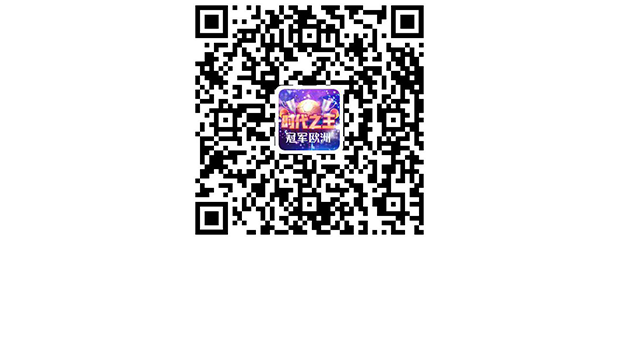
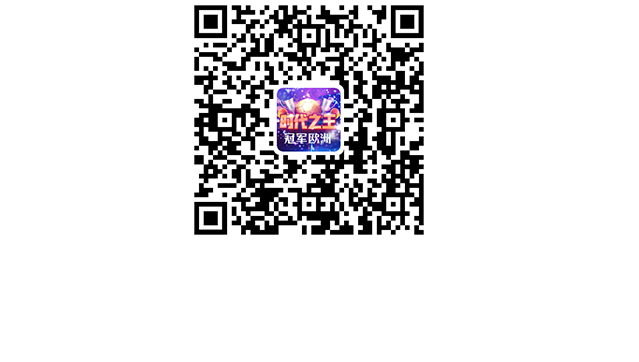
fix: 更换了二维码

Changed region(s): [[0.2973, 0.0, 0.6839, 0.6685]]

diff --git a/src/page/play/new.vue b/src/page/play/new.vue
@@ -314,6 +314,9 @@ export default {
     },
     // 打开海报
     tobill () {
+      this.popup = 0
+      this.popup1 = 0
+      this.popup3 = 0
       this.popup2 = 0
       this.playover = false
       this.$emit('tobill')
